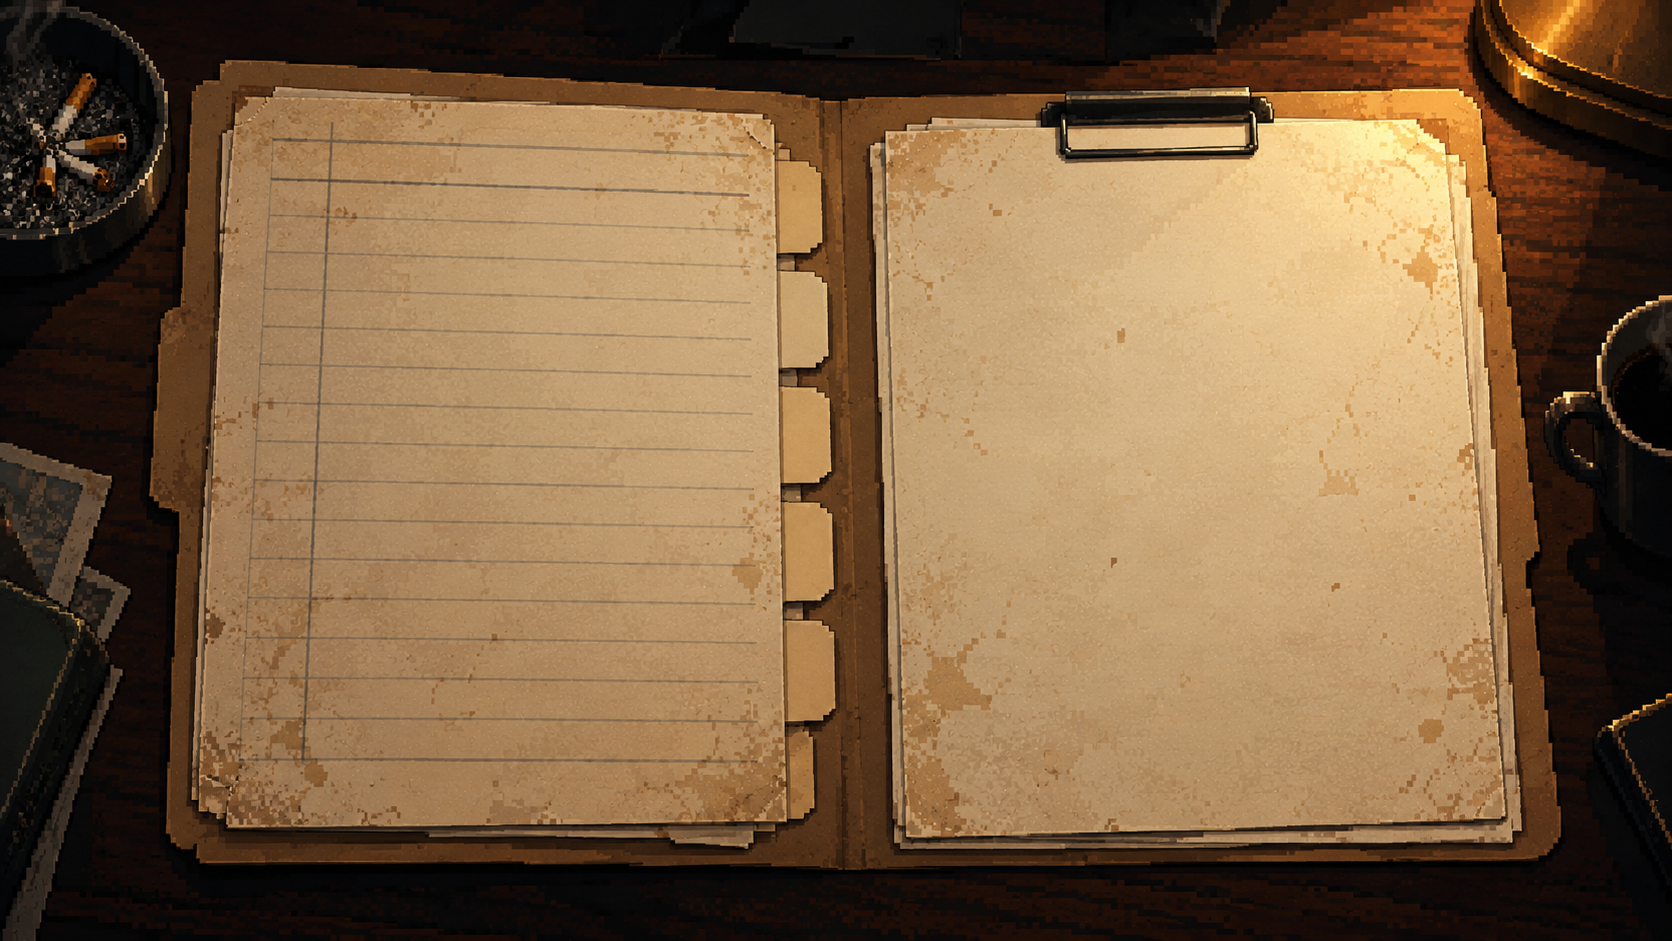
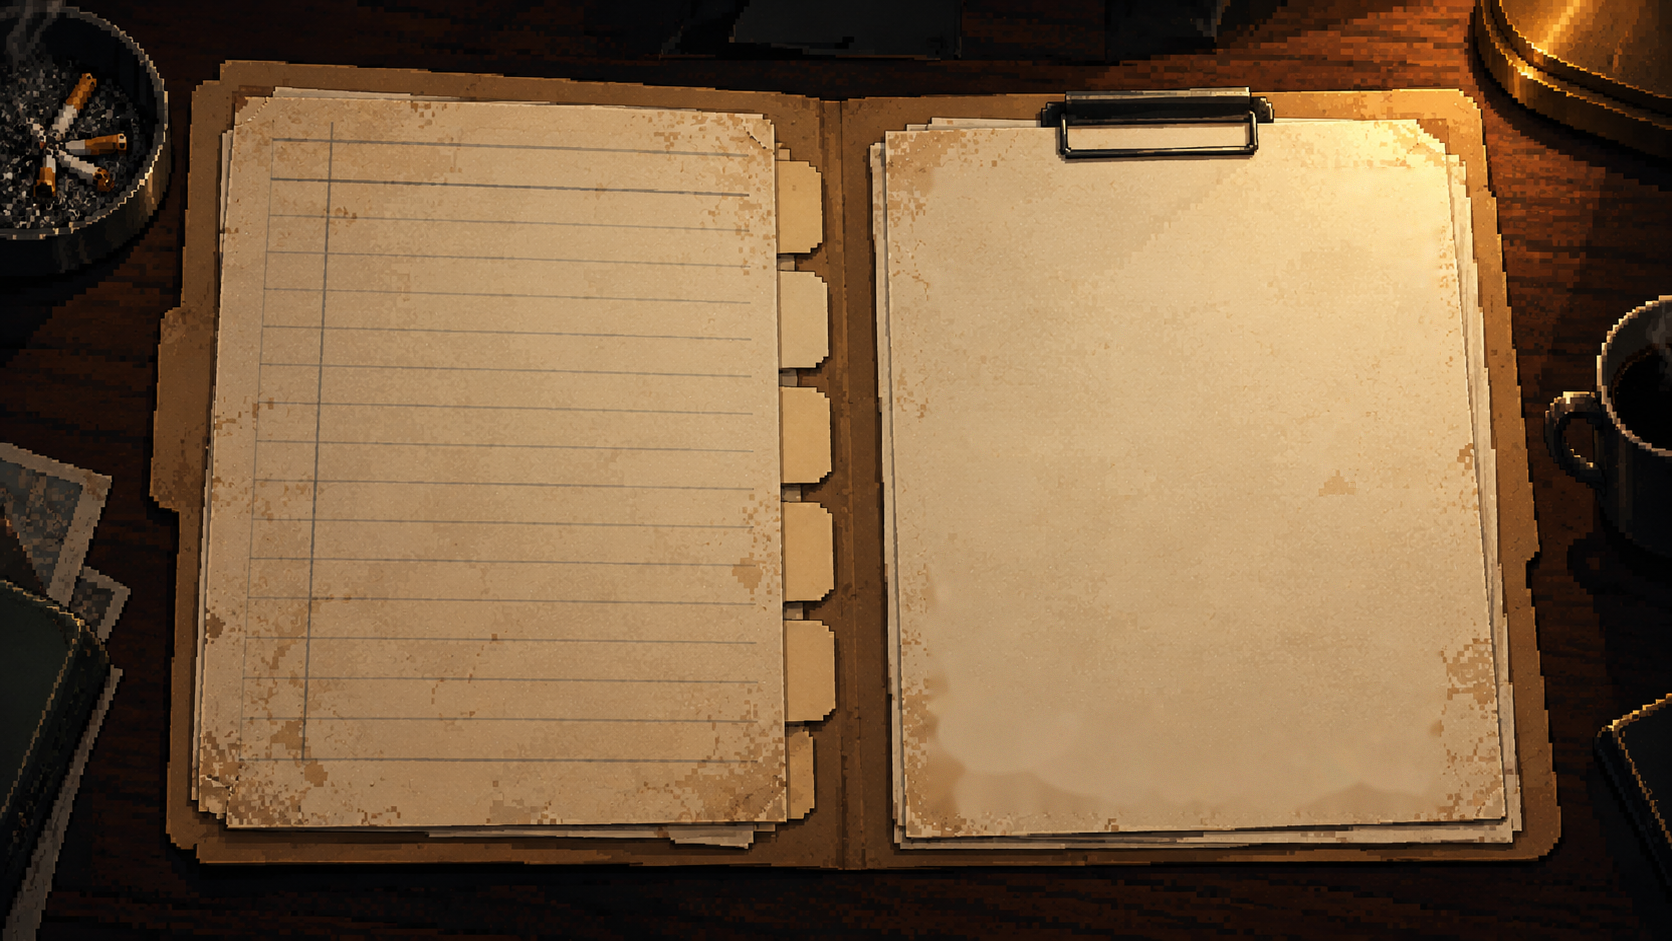
Orden de la galería, pista misteriosa de E02, sin manchas en planilla y códex
Claude-Session: https://claude.ai/code/session_01JvCHRr9eXwuxET2Q9A5xbT

diff --git a/CAMBIOS_BETA.md b/CAMBIOS_BETA.md
@@ -241,3 +241,10 @@ Se revisaron los textos nuevos (cartas X, debates, E01, E08, intros, cinemática
   - Ranuras de guardado como fichas de cartón (`gui/button/slot_*`) con texto oscuro y "EMPTY FILE".
   - Se ocultó "Upload Sync".
 - **THREE LENSES:** se explica en la misma página (`lenses_intro`), con nombre llano para cada modelo (CALCULATION, ROUTINE, BARGAINING), qué significa y una carta de la partida como ejemplo (`examples` en `build_debrief`). El códex queda como ampliación.
+
+---
+
+- **Galería:** orden de muestra en `GALLERY_ORDER` (E06 primero, E01 segundo, E02 último). El orden de `endings.json` no se toca, porque es la prioridad del resolutor.
+- **Pista de E02:** "?????".
+- **Manchas:** se sacaron de la franja inferior de la planilla de finales (`images/ending.png`) y de la hoja derecha del códex (`images/codex/codex.png`).
+- **Códex:** la etiqueta del modelo ("MODEL I") se corrió 70 px hacia adentro de la hoja.
